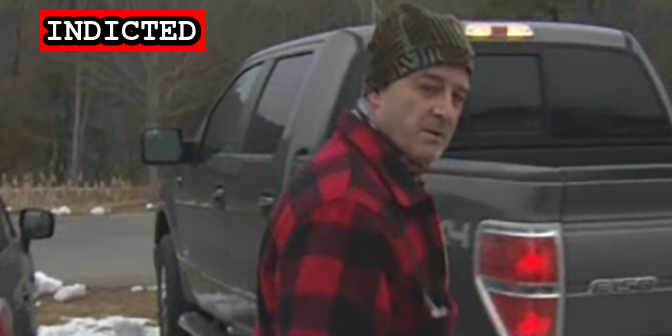
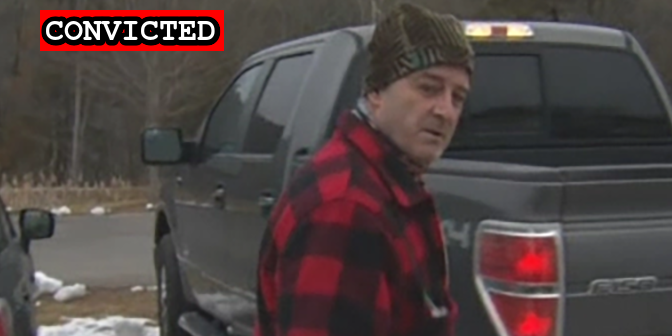
Guilty plea

Changed region(s): [[0.0625, 0.0298, 0.3438, 0.1488]]

diff --git a/docs/_suspects/thomas-gallagher.md b/docs/_suspects/thomas-gallagher.md
@@ -3,11 +3,11 @@ name: Thomas Gallagher
 lastName: Gallagher
 aka:
 residence: New Hampshire
-status: Indicted
+status: Convicted
 date: 2021-01-21
 charged: 2021-01-21
 indicted: 2021-01-15
-convicted: 
+convicted: 2021-07-15
 sentenced: 
 dismissed: 
 age: 61
